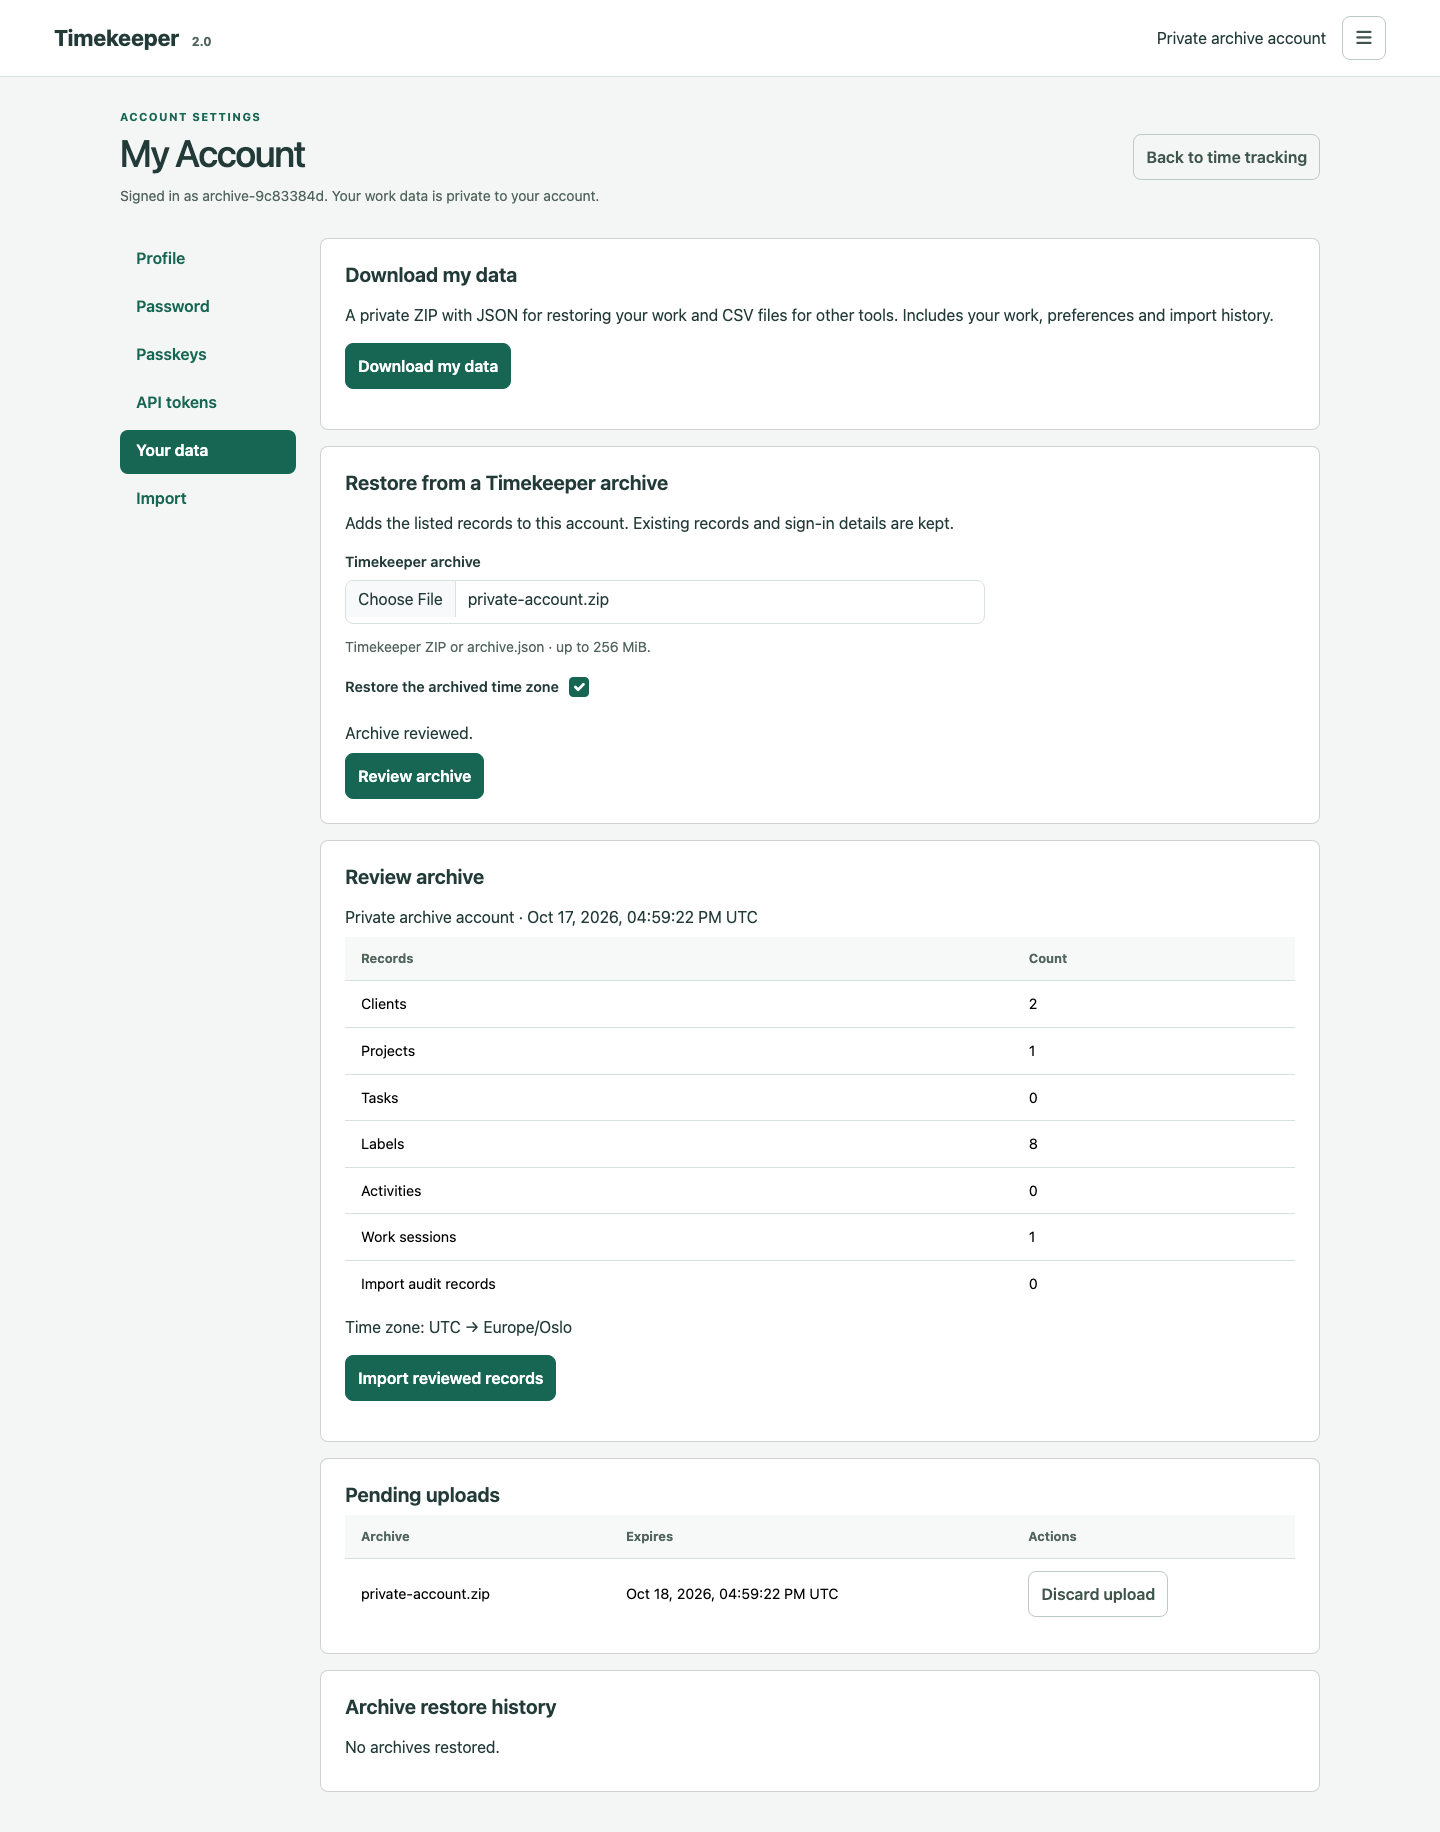
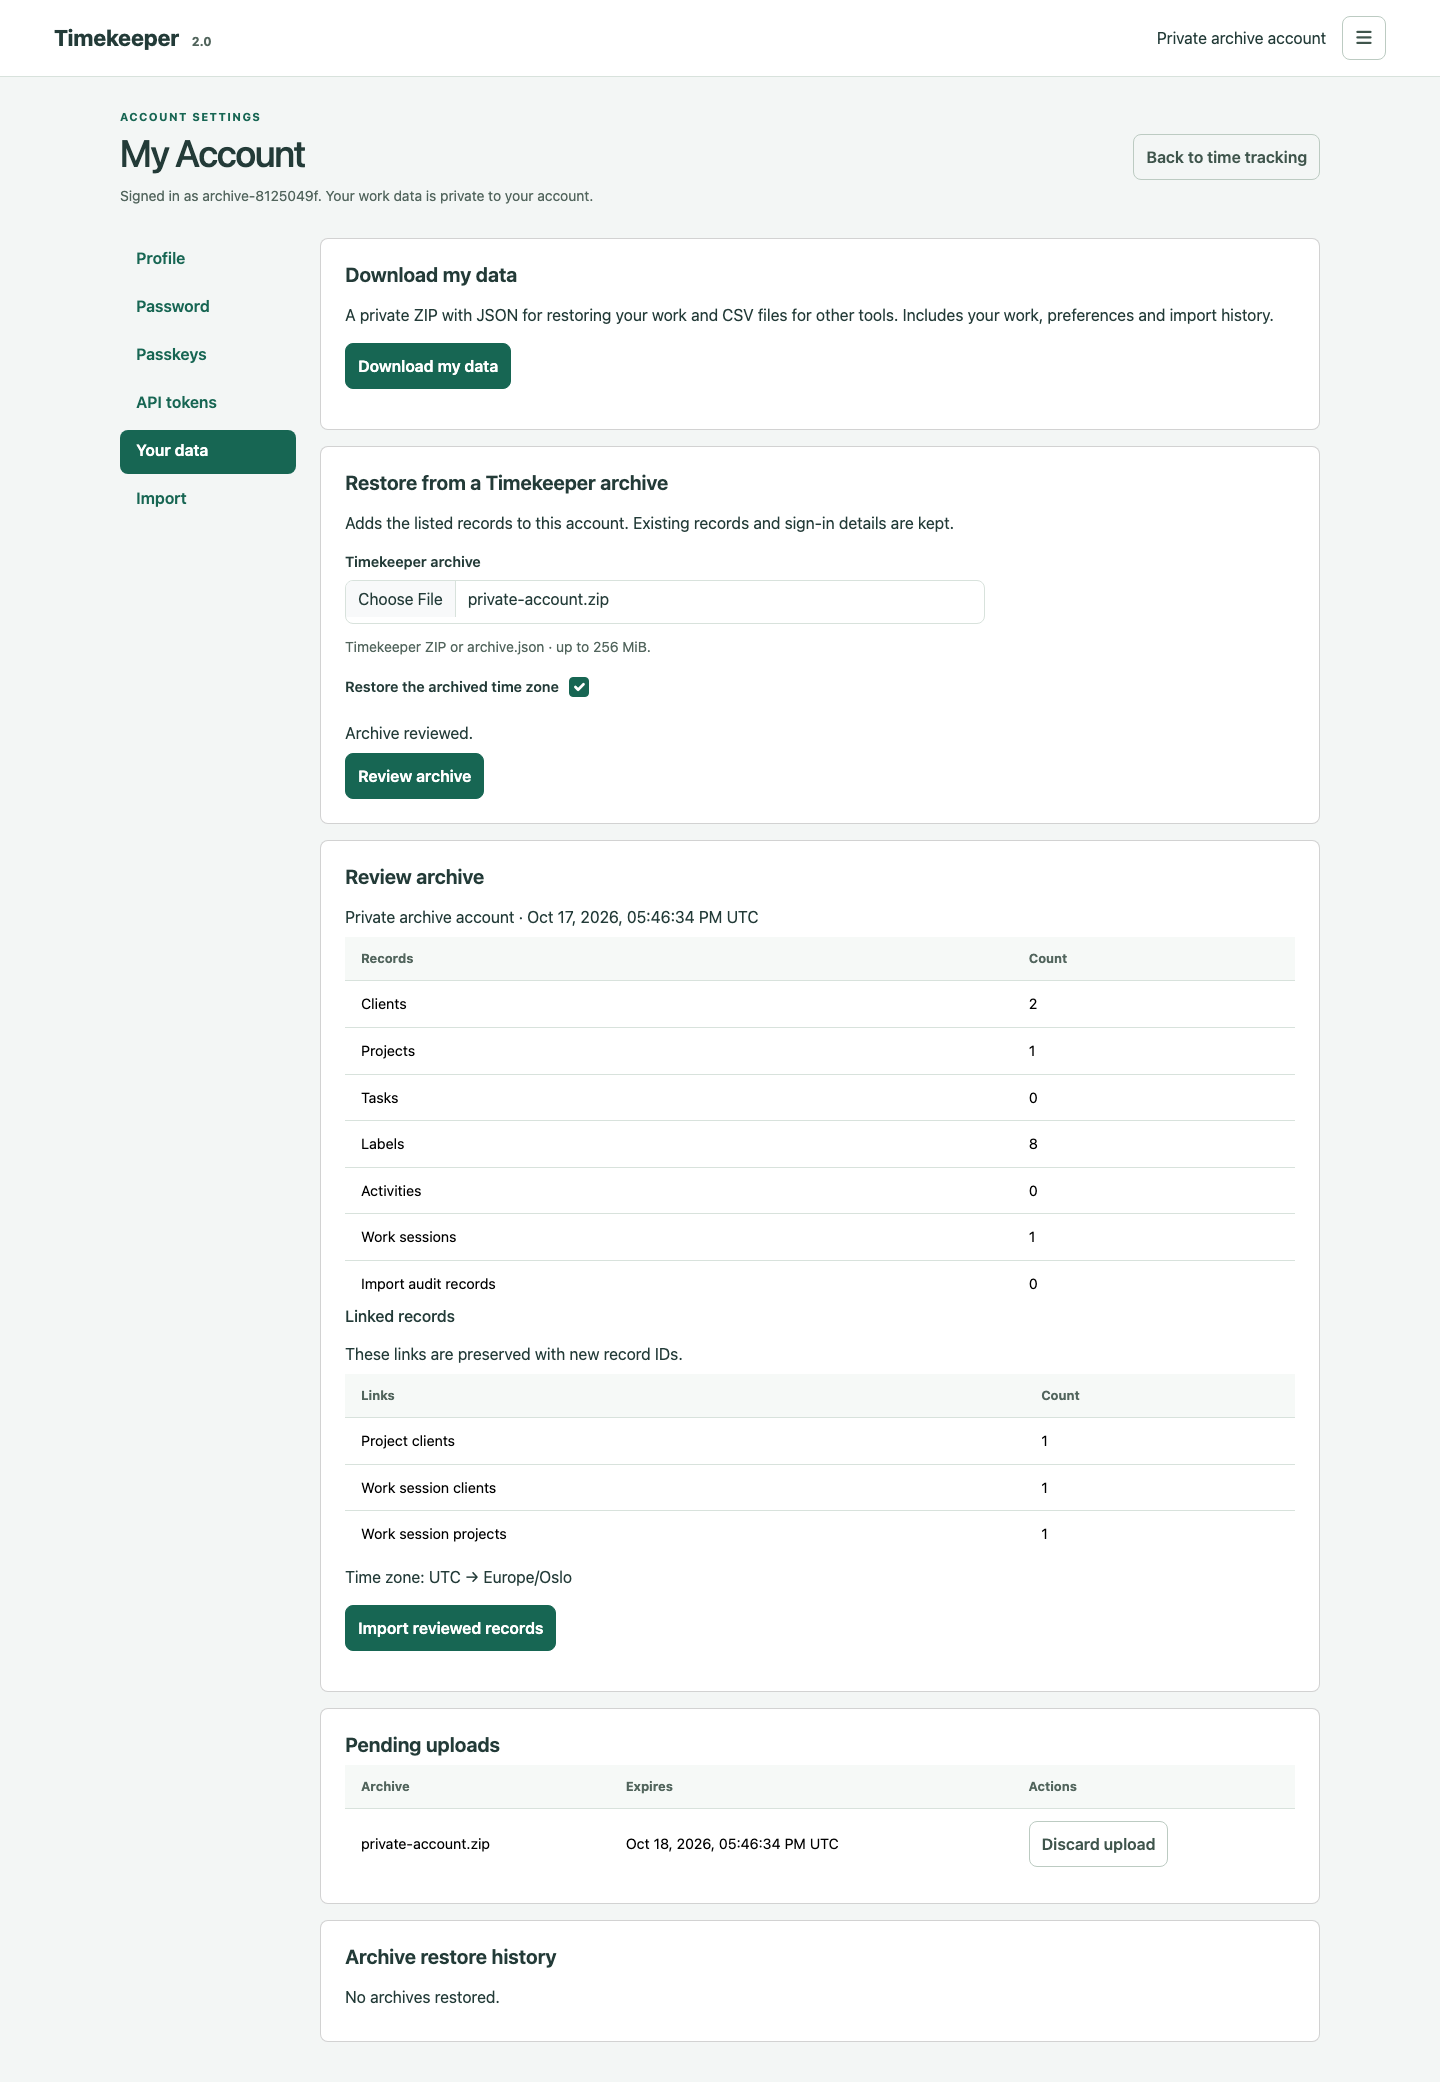
Refresh archive review screenshots and validation evidence

diff --git a/docs/verification/ACCOUNT-DATA.md b/docs/verification/ACCOUNT-DATA.md
@@ -2,26 +2,32 @@
 
 Local verification on 2026-10-17 for #341, integrated with main’s optional
 work-session projects and service administration. The packaged runtime at
-`115f6f55854dac9bb3958c39eabe136923c02b0f` has schema 5. Its ZIP SHA-256 is
[1 lines of base64/hex data omitted]
-Subsequent documentation and fixture changes do not change that runtime.
+`69c21b54ee574ec7033b89eaa631506aadac5013` has schema 5. Its ZIP SHA-256 is
[1 lines of base64/hex data omitted]
+Subsequent documentation updates retain the same application code.
 
 | Boundary | Verified behavior |
 | --- | --- |
 | Complete private download | Administrator, ordinary and read-only exports remain owner-scoped. JSON and CSV contain all six work types, preferences, management metadata and inert import audit. A real export of 11,001 tasks exceeds 20 MiB without list-page truncation. |
 | Secrets and spreadsheet reuse | Actual stored token digests, passkey IDs/handles/public keys, another owner’s address and global SMTP secrets are excluded. CSV quotes values and neutralizes formula prefixes after Unicode whitespace/control characters; JSON preserves the original text. |
-| Reviewed restore | Fresh IDs retain task hierarchy, external references, labels, optional work-session projects and exact nanoseconds. Identity, password, roles, recovery addresses, passkeys and API tokens remain those of the target account. Source import authority is retained only as inert audit. |
+| Reviewed restore | Preview shows record and relationship counts. Fresh IDs retain task hierarchy, external references, labels, optional work-session projects and exact nanoseconds. Identity, password, roles, recovery addresses, passkeys and API tokens remain those of the target account. Source import authority is retained only as inert audit. |
 | Validation and concurrency | Malformed ZIP/JSON, broken references, owner substitution, running-timer conflicts, stale work/profile versions and changed archive identity are rejected atomically. Repeated or concurrent commits retain one graph and one durable outcome. |
 | Restart and recovery | Two actual JVMs on PostgreSQL 17.11 and 18.6 resume private chunks across a literal container restart and reconcile simultaneous restores. Protected database backup/restore retains work, upload outcomes and receipts together. |
 | Browser lifecycle | Actual ZIP download, worker hashing, lost chunk reply/reload/reselection, stale review and lost committed reply are exercised. Read-only users can download repeatedly. Desktop, 390px and 320px layouts have no horizontal overflow and pass automated accessibility checks. |
 
-The integrated server reactor passed all 188 application tests plus the domain,
-service and HTTP-client suites. Nine archive integration tests passed on each
+The integrated server reactor passed all 189 application tests plus the domain,
+service and HTTP-client suites. Ten archive integration tests passed on each
 real PostgreSQL major. The API contract suite passed 12 tests, web unit tests
 passed 58, and packaging/channel tooling passed 74. Full packaged HTTPS Chromium
 passed 93 browser scenarios. Full packaged HTTPS WebKit passed 87, with six
 expected skips for Chromium-only virtual authenticators and CDP touch fixtures.
-All four account portability scenarios passed in both engines.
+All four account portability scenarios passed in both engines. All 13 inline
+web-guide images are bundled locally; the packaging test rejects image links
+that fall back to GitHub HTML pages.
+
+Replica/restart/backup checks initially passed on `115f6f5`; CI repeats these
+against its exact current source. The latest local PostgreSQL runs include the
+new task-hierarchy and work-session-label restore regression on both majors.
 
 These use synthetic private fixtures and do not modify existing accounts or the
 NAS. WebKit automation does not claim manual Safari, Touch ID or security-key

diff --git a/docs/development/WEB-CLIENT.md b/docs/development/WEB-CLIENT.md
@@ -463,8 +463,8 @@ leaves readiness and cannot continue using its old policy.
 ## Account data portability
 
 **My Account → Your data** downloads the signed-in account as a private ZIP with
-JSON and CSV. A reviewed restore adds work with remapped relationships and an
-optional time-zone change; it preserves the target account’s identity,
+JSON and CSV. A reviewed restore shows record and link counts, then adds work with remapped
+relationships and an optional time-zone change; it preserves the target account’s identity,
 permissions and credentials. Interrupted uploads resume after file reselection,
 and an uncertain restore can be reconciled without duplicating records.
 
